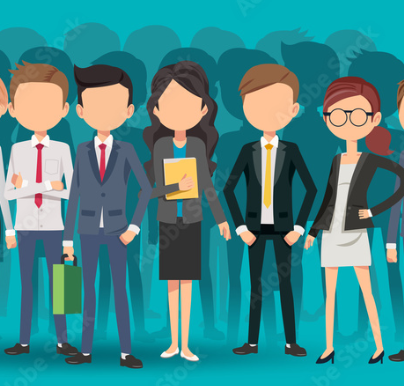
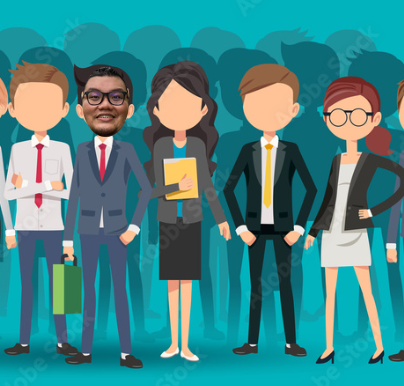
photos

Changed region(s): [[0.1782, 0.1554, 0.3267, 0.3731]]

diff --git a/TummyRecipesPHP/aboutus.php b/TummyRecipesPHP/aboutus.php
@@ -28,7 +28,7 @@
                         <h3 class="about"><br>The Tummy Team</h3>
                         <br><br>
                         <figure>
-                            <img class="aboutusimg" src="images/sampleimg1.jpeg" 
+                            <img class="aboutusimg" src="images/TeamPhoto1.png" 
                                  alt="AboutUs" name="TheTeam">
                         </figure>
                         <p style="font-size: 20px;">
